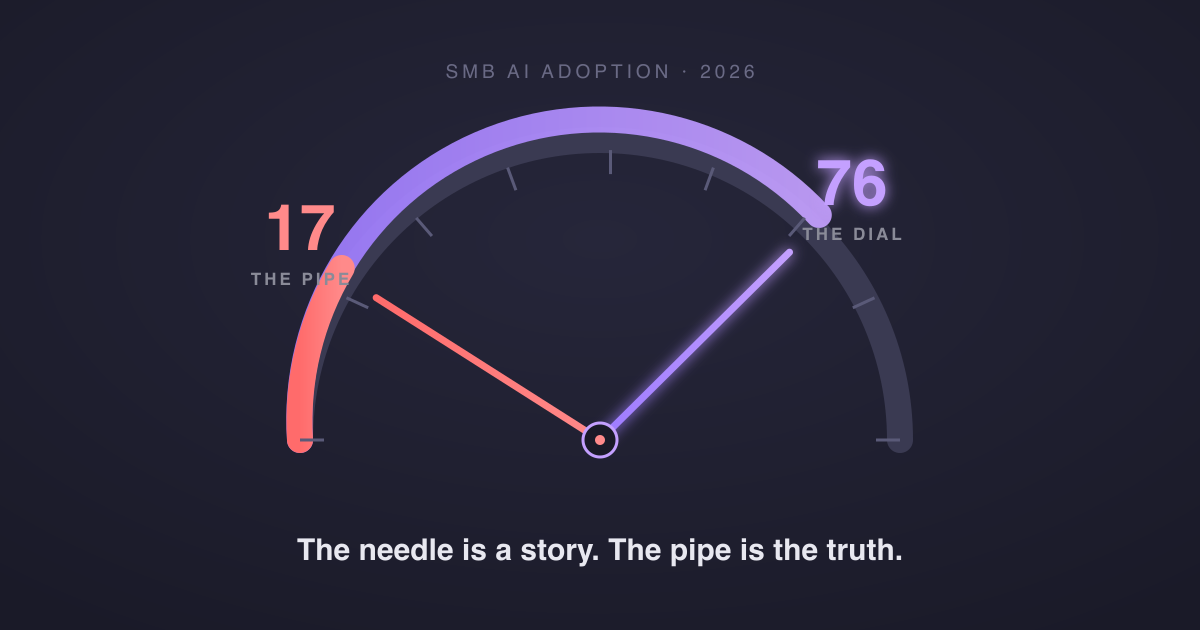
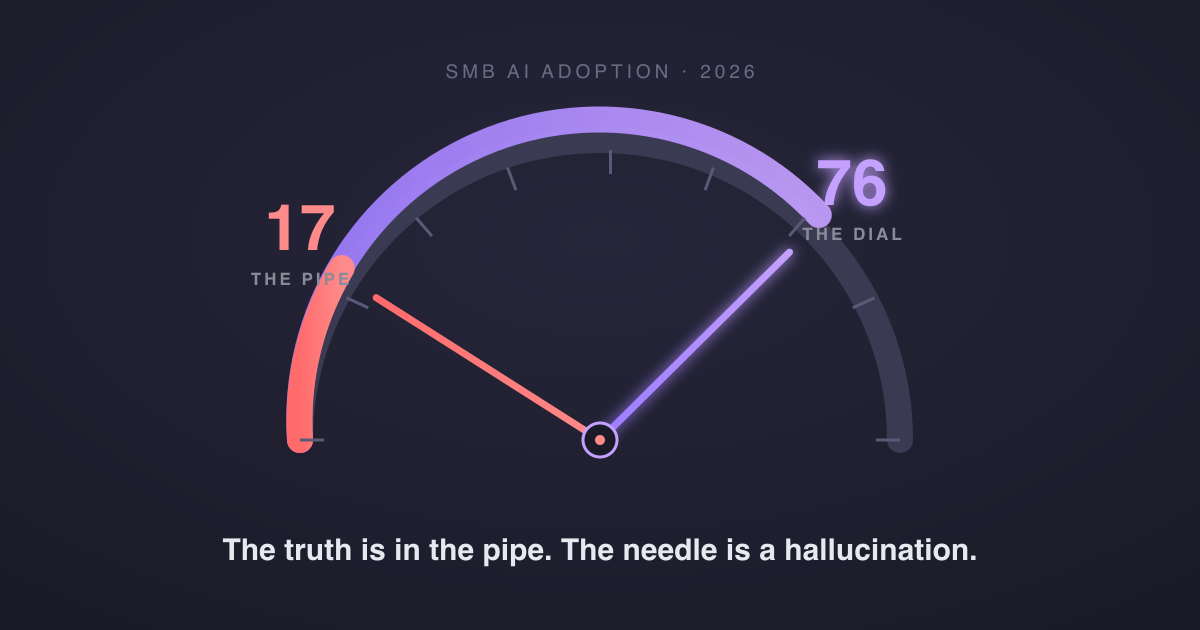
Sharpen SMB AI post close: the needle is a hallucination
Tie the gauge metaphor to the AI hallucination theme in the hero tagline and
the closing paragraph.

Changed region(s): [[0.185, 0.8444, 0.8017, 0.9048]]

diff --git a/blog/state-of-smb-ai-2026.html b/blog/state-of-smb-ai-2026.html
@@ -151,8 +151,8 @@
 <h2>Walking the Line</h2>
 <p>The owners who are going to win the next two years aren&rsquo;t the ones with the most subscriptions. They&rsquo;re the ones who treat this like the old operators treated that pressure reading. Pick one real measurement &mdash; hours saved, dollars saved, a number you&rsquo;d actually defend. Point one tool at one boring, expensive, repetitive piece of the business. Give it ninety days. If you can&rsquo;t show the number moved by day ninety, kill it without sentiment. That&rsquo;s it. That&rsquo;s the whole discipline. It&rsquo;s not glamorous and it doesn&rsquo;t demo well, and it is the only thing that separates the 14% who embedded it from the 42% who abandoned it.</p>
 <p>That&rsquo;s also, not coincidentally, how I&rsquo;ve always wanted software built. You don&rsquo;t ship the thing because the dashboard is green. You walk the line. You measure what&rsquo;s actually flowing through the pipe, you test it before you trust it, and you have the spine to rip out what isn&rsquo;t earning its keep &mdash; even when the gauge on the wall is parked at a number that lets you sleep.</p>
-<p>The needle is a story somebody told you about the line. The line is the line.</p>
-<p>Go walk it.</p>
+<p>Which is the right way to end a piece about AI, when you think about it. A model that confidently tells you something untrue has a name now &mdash; we call it a hallucination &mdash; and a gauge confidently parked at 76 while the pipe runs at 17 is the same failure wearing an analog face. The truth is in the pipe. The needle is a hallucination.</p>
+<p>Go walk the line.</p>
   </div>
   <div class="related-posts">
     <h3>Related Posts</h3>